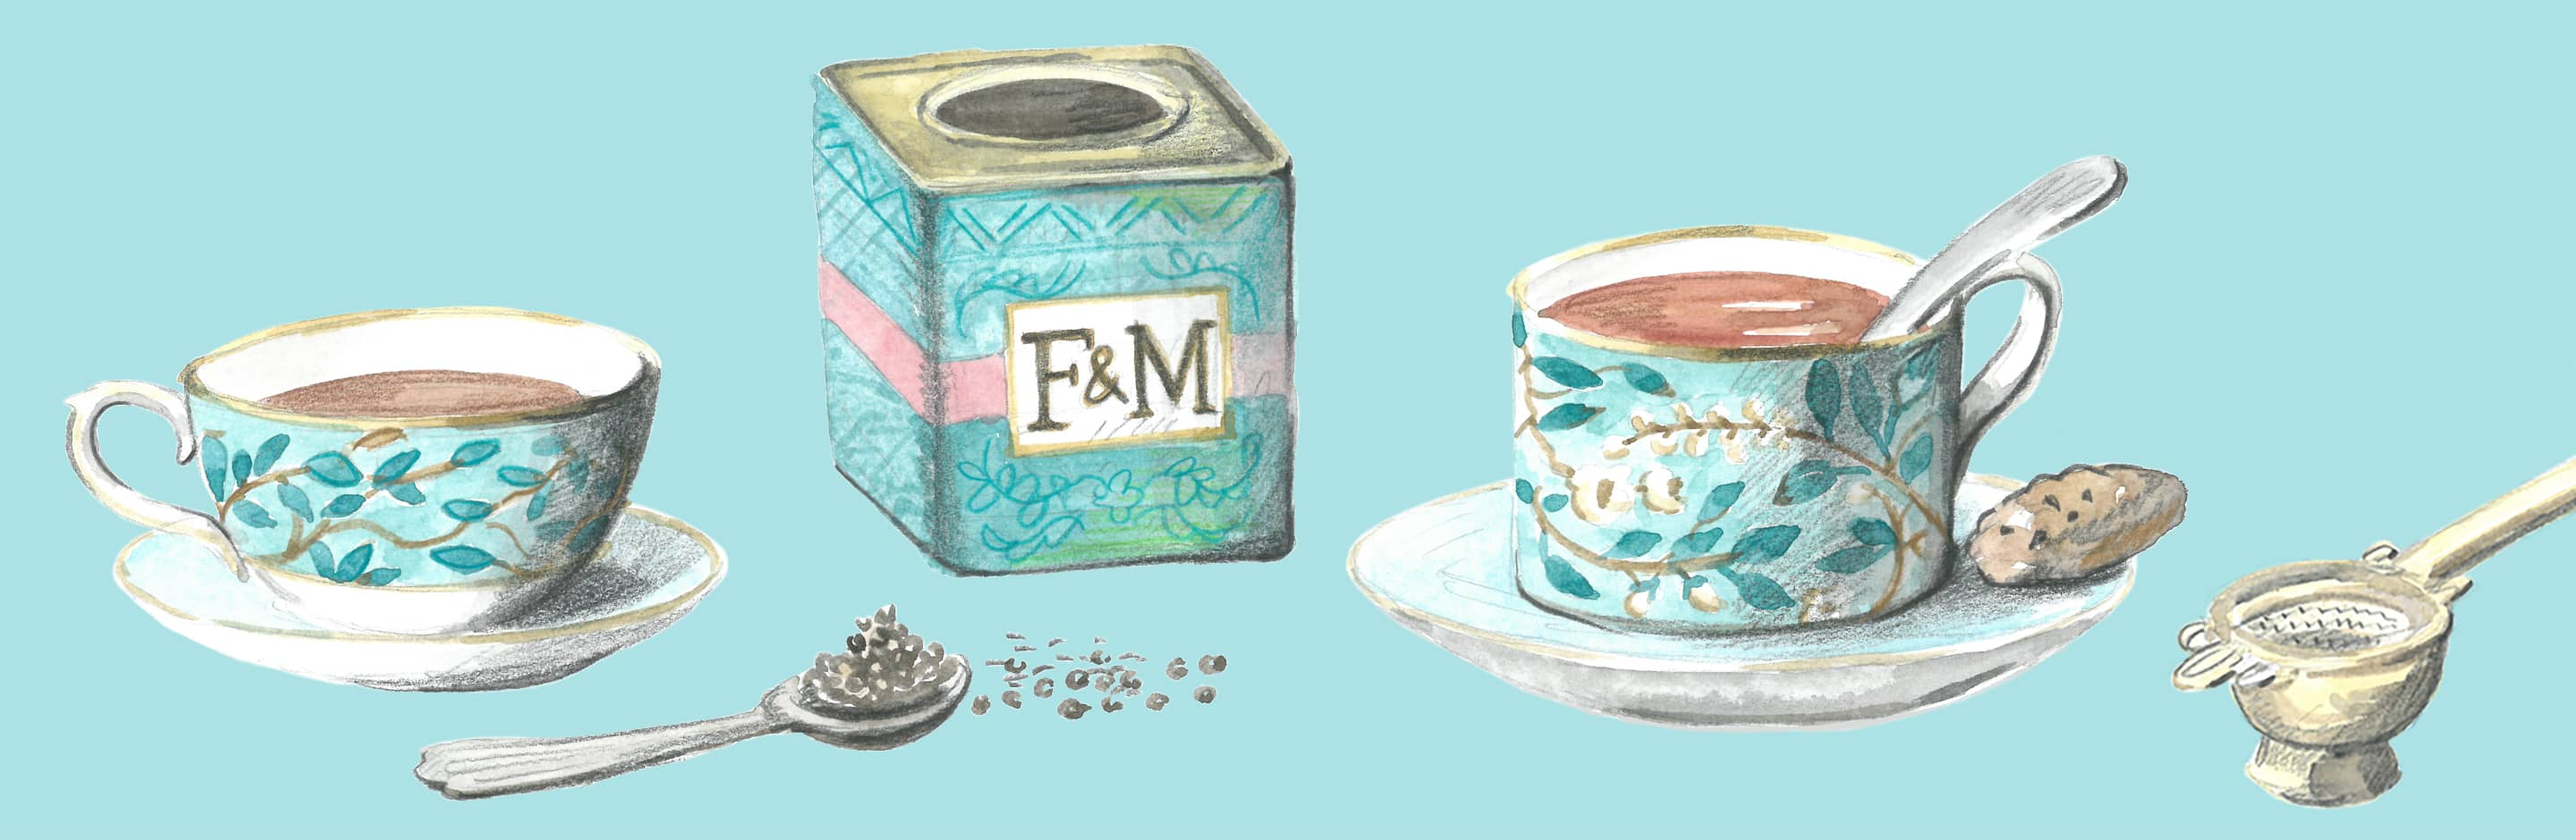
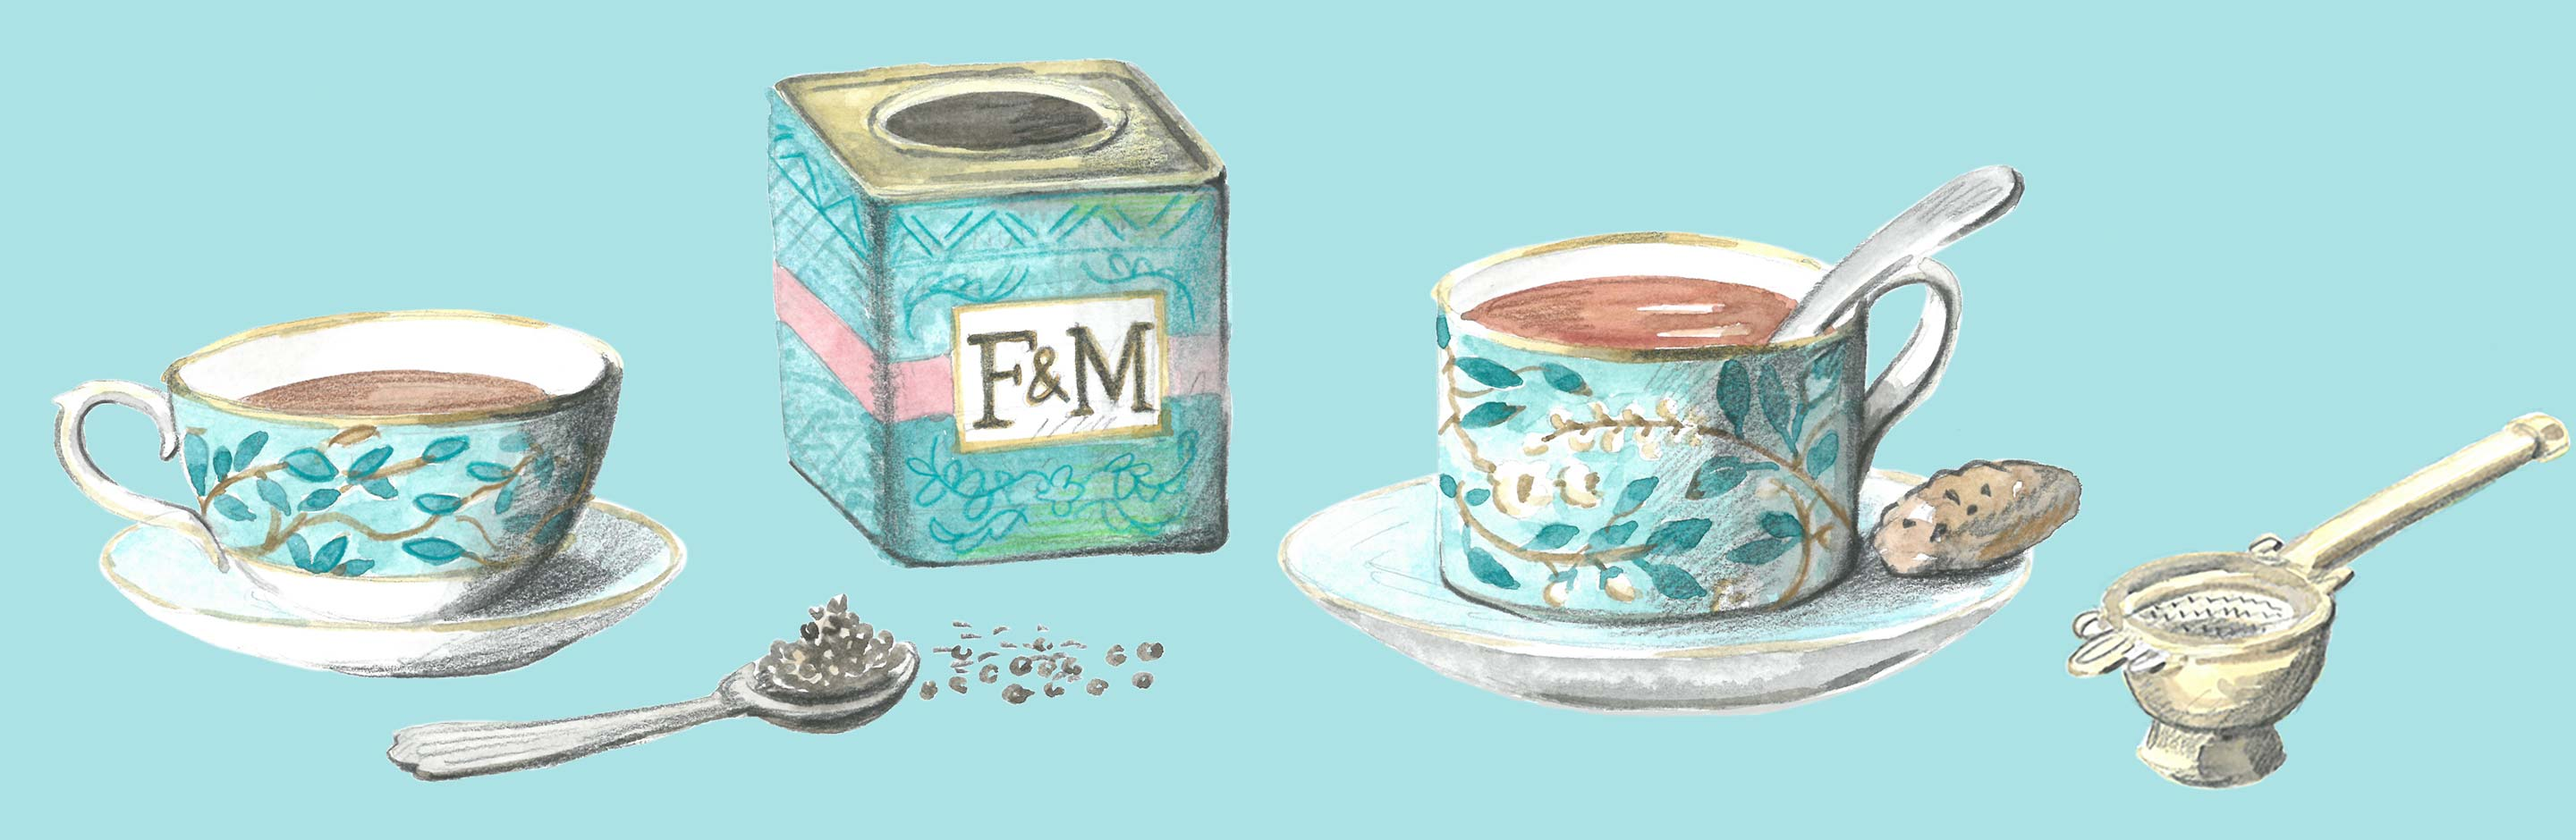
Adding new header image, adding color to background image container

diff --git a/site/pages/our-work/case-study/fortnums-tea/style.css b/site/pages/our-work/case-study/fortnums-tea/style.css
@@ -210,10 +210,7 @@
 
   .header__imageContainer {
     height: 470px;
+    background-color: #ACE1E6;
   }
 
-  .header__imageContainer > img {
-    width: 100%;
-    height: initial;
-  }
 }
